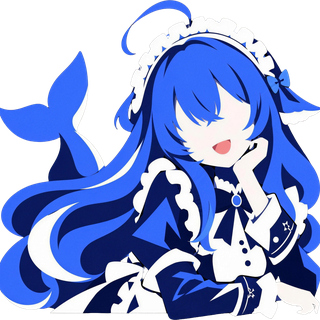
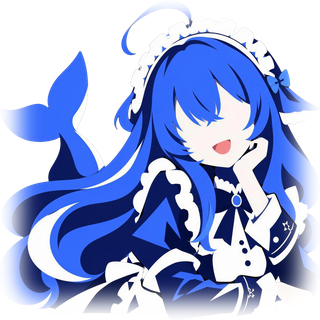
重做无忧蓝主题图片资源并忽略原始素材

diff --git a/tests/test_theme_assets.py b/tests/test_theme_assets.py
@@ -59,11 +59,29 @@ class ThemeAssetTests(unittest.TestCase):
         self.assertIsNotNone(card)
         self.assertIsNotNone(character)
         self.assertEqual(card.size, (320, 320))
-        self.assertEqual(character.size, (240, 320))
+        self.assertEqual(character.size, (528, 704))
         self.assertEqual(card.mode, "RGBA")
         self.assertEqual(character.mode, "RGBA")
         self.assertEqual(card.getchannel("A").getextrema(), (0, 255))
         self.assertEqual(character.getchannel("A").getextrema(), (0, 255))
+
+    def test_card_art_fades_out_on_all_four_edges(self):
+        card = theme_assets.load_theme_image(DEEPSEEK_CARD)
+        self.assertIsNotNone(card)
+        alpha = card.getchannel("A")
+
+        for point in ((0, 160), (319, 160), (160, 0), (160, 319)):
+            self.assertLessEqual(alpha.getpixel(point), 4, point)
+        self.assertGreater(alpha.getpixel((160, 160)), 200)
+
+    def test_character_art_has_rounded_transparent_corners(self):
+        character = theme_assets.load_theme_image(DEEPSEEK_CHARACTER)
+        self.assertIsNotNone(character)
+        alpha = character.getchannel("A")
+
+        for point in ((0, 0), (527, 0), (0, 703), (527, 703)):
+            self.assertEqual(alpha.getpixel(point), 0, point)
+        self.assertGreater(alpha.getpixel((264, 352)), 200)
 
 
 if __name__ == "__main__":
